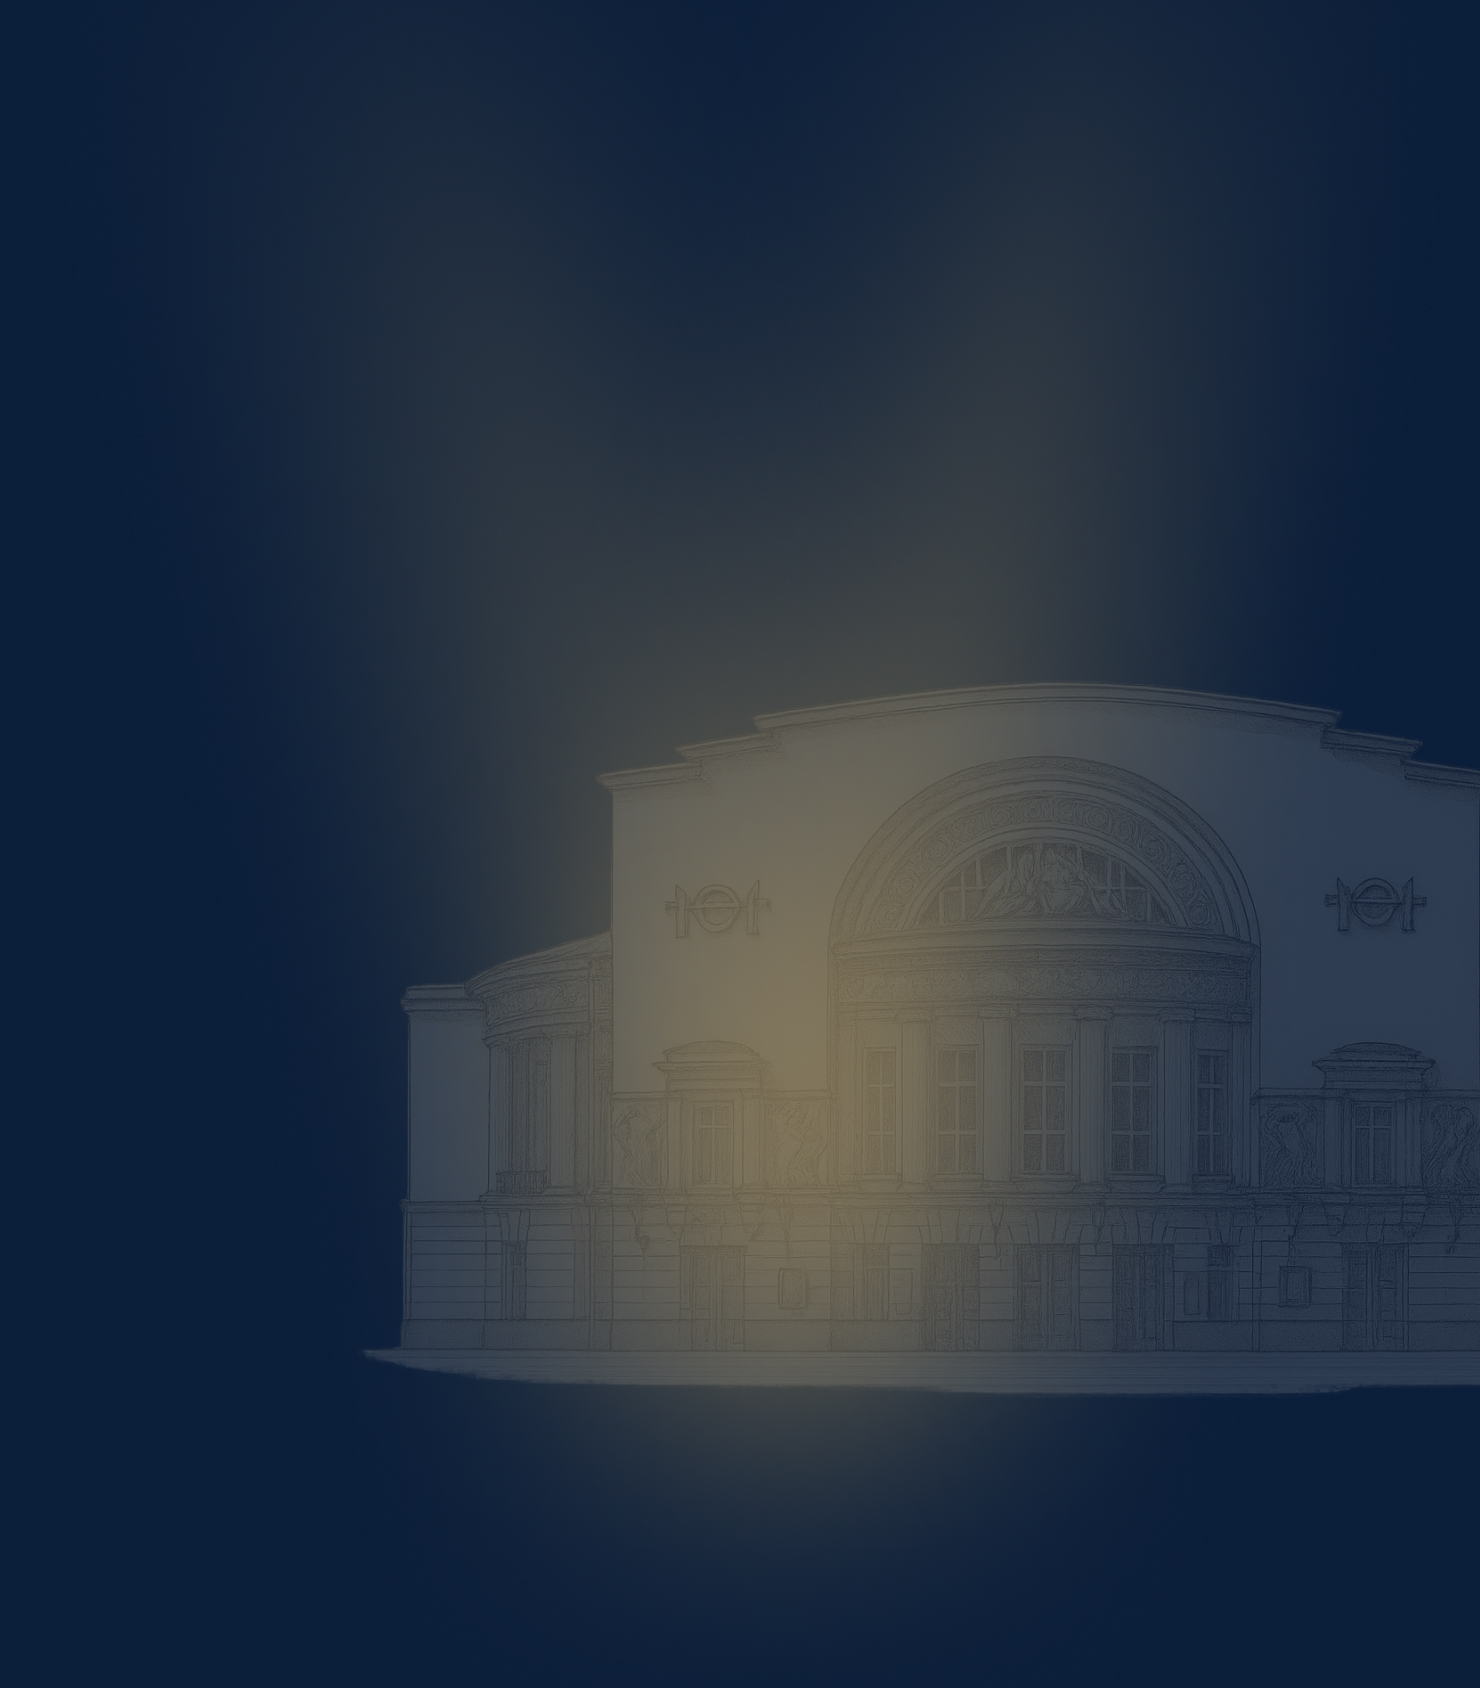
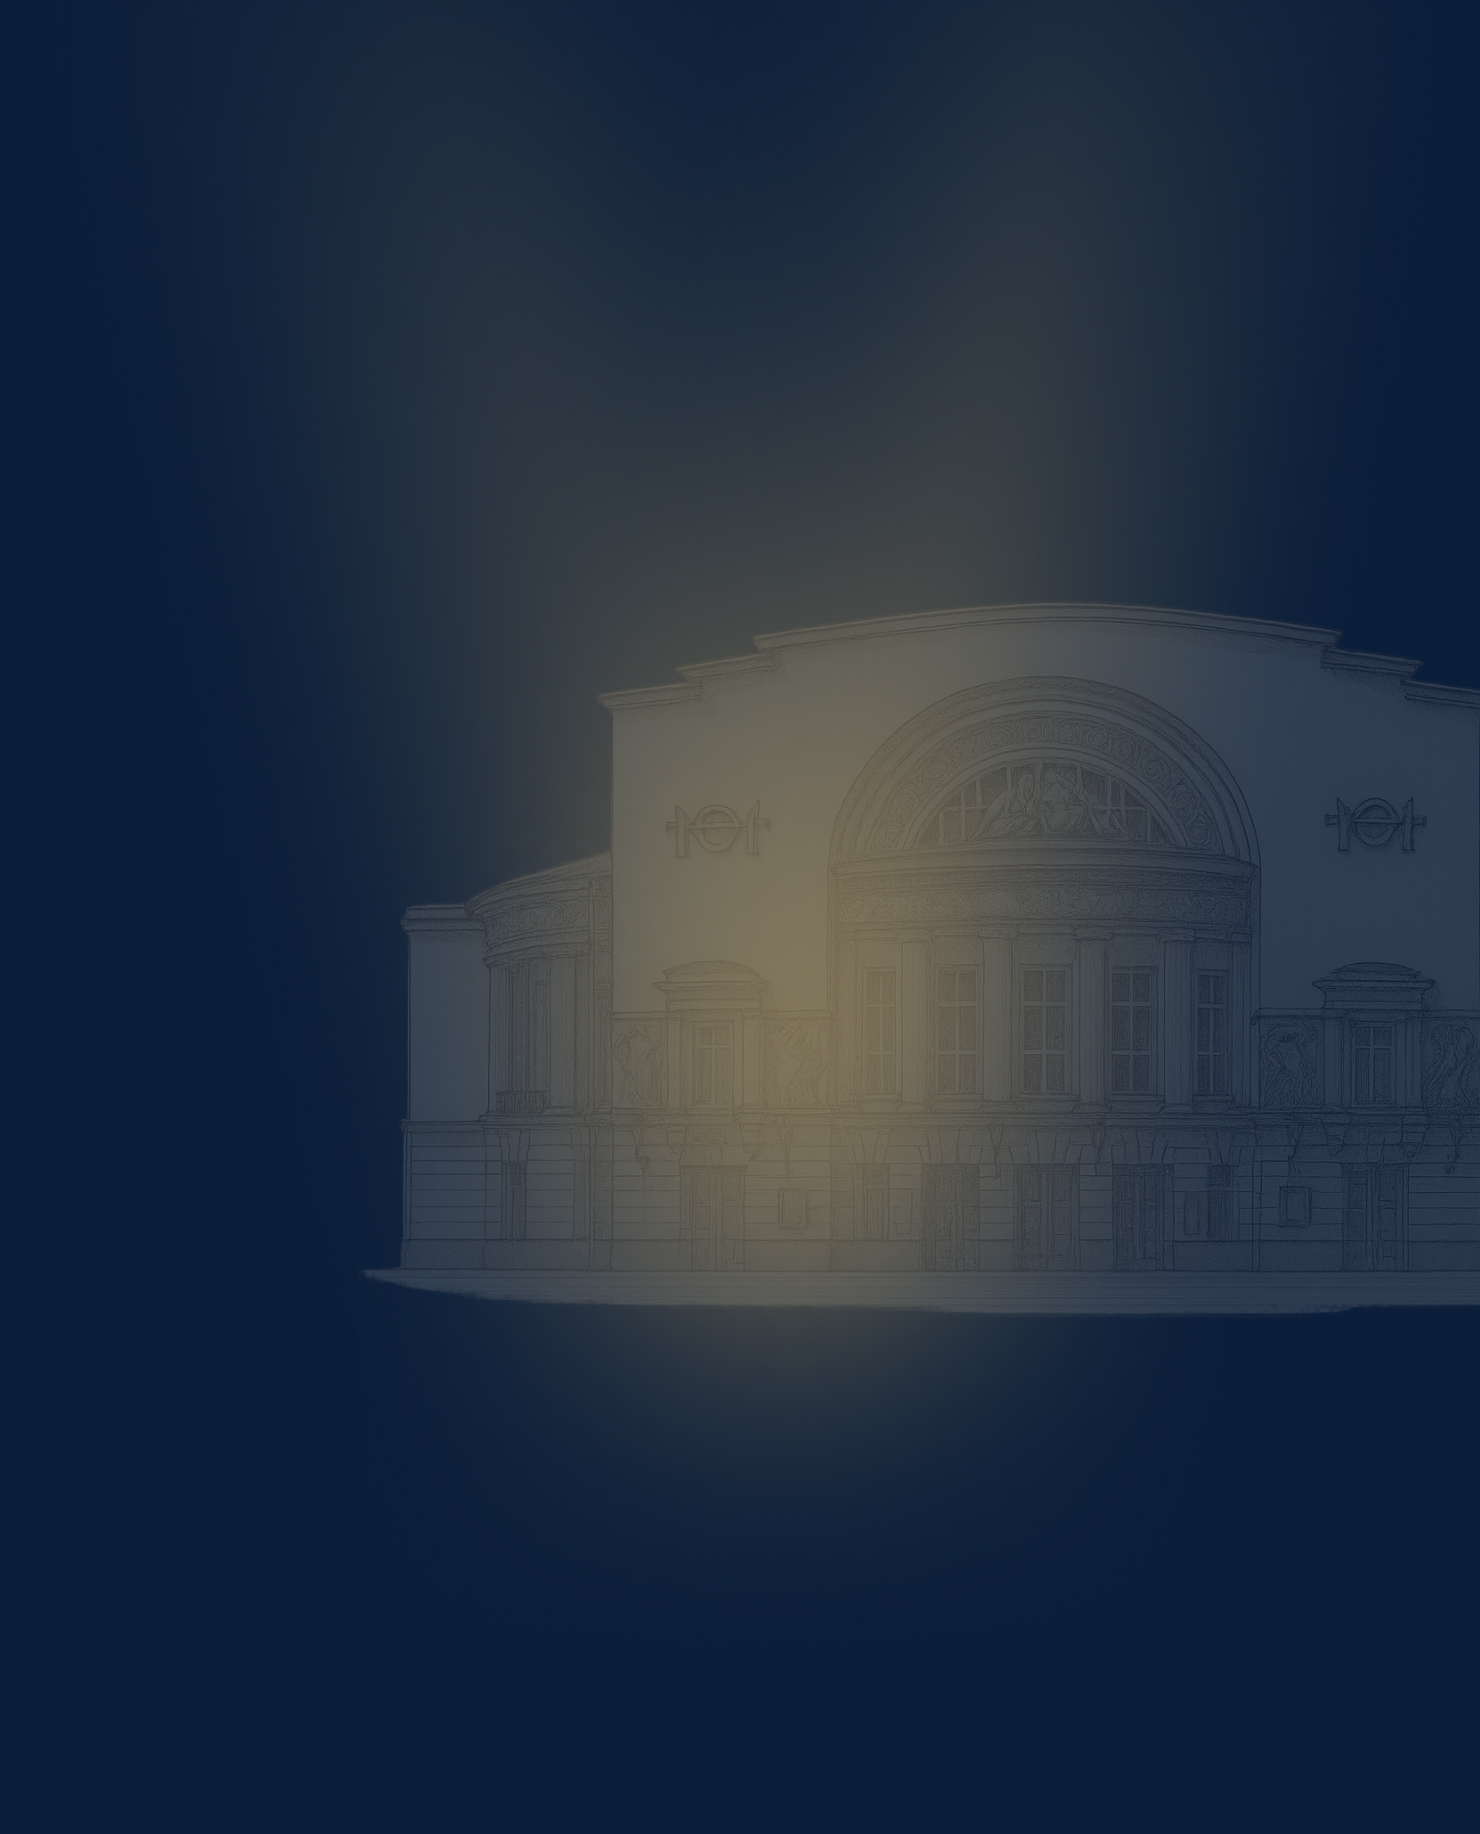
volkov

Changed region(s): [[0.2486, 0.6469, 1.0, 0.8934], [0.2797, 0.3081, 1.0, 0.5853]]

diff --git a/src/styles/_volkov.css b/src/styles/_volkov.css
@@ -186,33 +186,24 @@
 
 
     .volkov {
-        /*position: relative;*/
-        height: auto;
-        /*padding-top: var(--header-height);*/
-        /*background-image: url("../images/volkov/volkov-background-laptop@1x.jpg");*/
-        /*background-size: 1850px 700px;*/
-        /*background-repeat: no-repeat;*/
-        background-position: center top;
+        height: 917px;
+        background-image: url("../images/volkov/volkov-background-smartphone@1x.jpg");
+        background-size: 740px 917px;
     }
 
     @media (min-resolution: 2dppx) {
 
         .volkov {
-            /*background-image: url("../images/volkov/volkov-background-laptop@2x.jpg");*/
+            background-image: url("../images/volkov/volkov-background-smartphone@2x.jpg");
         }
     }
         /* Волков - портрет */
         .volkov__hero {
-            position: static;
+            margin-left: -195px;
+            margin-top: -130px;
             width: 391px;
-            margin-top: 0;
-            margin-left: auto;
-            margin-right: auto;
             height: 464px;
             background-image: url("../images/volkov/volkov-hero-smartphone@1x.png");
-            /*background-size: auto 100%;*/
-            /*background-repeat: no-repeat;*/
-            /*background-position: center center;*/
         }
 
         @media (min-resolution: 2dppx) {
@@ -224,21 +215,16 @@
 
         /* Градиент */
         .volkov__overlay {
-            /*display: block;*/
-            /*position: absolute;*/
-            /*left: 0;*/
-            /*right: 0;*/
-            /*bottom: 0;*/
-            /*height: 30%;*/
-            /*background-image: linear-gradient(transparent, #0B1E3A 70%, #0B1E3A);*/
+            height: 40%;
+            background-image: linear-gradient(transparent, #0B1E3A 70%, #0B1E3A);
         }
             .volkov__content {
-                /*position: relative;*/
-                /*height: 100%;*/
-                padding-top: 40px;
+
             }
                 .volkov__intro {
-                    position: static;
+                    top: 40px;
+                    left: 0;
+                    right: 0;
                     width: auto;
                 }
                     .volkov__heading {
@@ -260,9 +246,10 @@
                     }
 
                 .volkov__quote {
-                    position: static;
+                    bottom: 0;
+                    left: 0;
+                    right: 0;
                     width: auto;
-                    margin: 481px 0 0;
                     font-size: 28px;
                     line-height: 34px;
                 }
